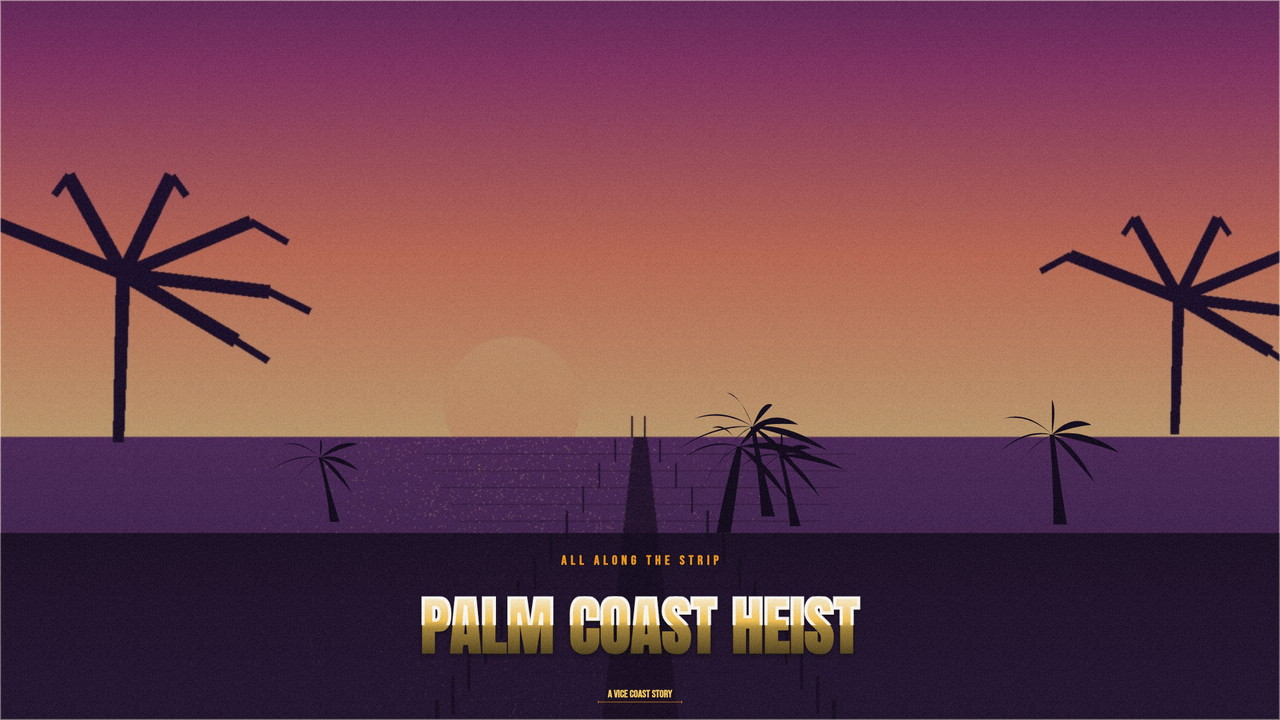
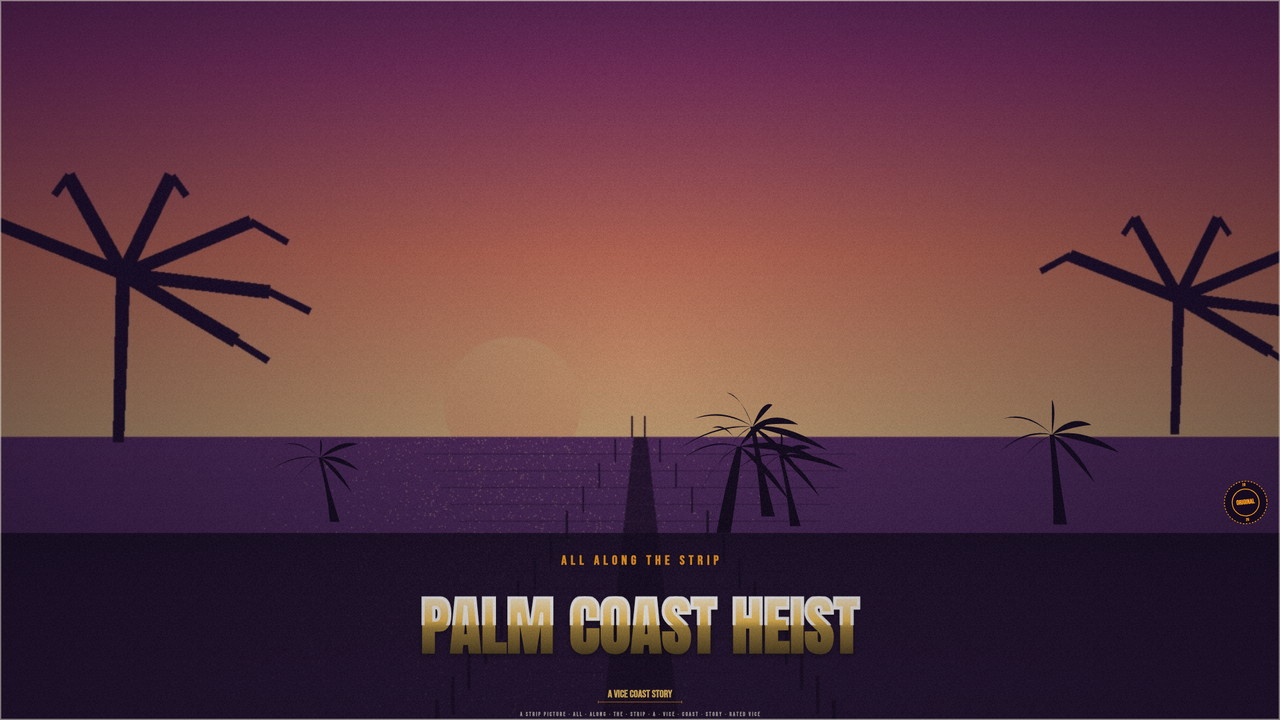
Richer covers: seal badge, billing block, vignette

diff --git a/app/src/marks.js b/app/src/marks.js
@@ -2,7 +2,8 @@
 
 export const BADGES = {
   classic: { id: 'classic', name: 'Classic' },
-  ribbon: { id: 'ribbon', name: 'Ribbon' }
+  ribbon: { id: 'ribbon', name: 'Ribbon' },
+  seal: { id: 'seal', name: 'Seal' }
 };
 
 const FONT = '"Bebas Neue", "Arial Narrow", sans-serif';
@@ -122,6 +123,66 @@ function drawRibbon(ctx, w, h, band, color) {
   ctx.restore();
 }
 
+// A circular postmark-style seal: dashed outer ring, solid inner ring, and the
+// year split across the top and bottom of the stamp.
+function drawSeal(ctx, w, h, band, color) {
+  const short = Math.min(w, h);
+  const diameter = Math.max(20, Math.round(short * 0.06));
+  const pad = Math.max(4, Math.round(short * 0.018));
+  const gap = Math.max(2, Math.round(short * 0.012));
+  const bottom = Math.max(diameter + pad, band > 0 ? h - band - gap : h - pad);
+  const cx = w - pad - diameter / 2;
+  const cy = bottom - diameter / 2;
+  const radius = diameter / 2;
+  const tilt = (-6 * Math.PI) / 180;
+
+  ctx.save();
+  ctx.translate(cx, cy);
+  ctx.rotate(tilt);
+
+  // A dark disc backs the stamp so the rings stay legible over any photo,
+  // panel or grade instead of disappearing into a bright part of the cover.
+  ctx.save();
+  ctx.globalAlpha = 0.78;
+  ctx.fillStyle = color.dark;
+  ctx.beginPath();
+  ctx.arc(0, 0, radius, 0, Math.PI * 2);
+  ctx.fill();
+  ctx.restore();
+
+  const outerWidth = Math.max(1, diameter * 0.018);
+  ctx.strokeStyle = color.accent;
+  ctx.lineWidth = outerWidth;
+  ctx.setLineDash([Math.max(2, diameter * 0.04), Math.max(2, diameter * 0.03)]);
+  ctx.beginPath();
+  ctx.arc(0, 0, radius - outerWidth / 2, 0, Math.PI * 2);
+  ctx.stroke();
+  ctx.setLineDash([]);
+
+  const innerWidth = Math.max(1, diameter * 0.02);
+  ctx.lineWidth = innerWidth;
+  ctx.beginPath();
+  ctx.arc(0, 0, radius * 0.62, 0, Math.PI * 2);
+  ctx.stroke();
+
+  const midPx = Math.max(8, Math.round(diameter * 0.16));
+  ctx.fillStyle = color.accent;
+  ctx.font = `700 ${midPx}px ${FONT}`;
+  ctx.textAlign = 'center';
+  ctx.textBaseline = 'middle';
+  ctx.fillText('ORIGINAL', 0, 0);
+
+  const year = String(new Date().getFullYear());
+  const split = Math.ceil(year.length / 2);
+  const yearPx = Math.max(6, Math.round(diameter * 0.09));
+  ctx.font = `700 ${yearPx}px ${FONT}`;
+  ctx.textBaseline = 'middle';
+  ctx.fillText(year.slice(0, split), 0, -radius * 0.81);
+  ctx.fillText(year.slice(split), 0, radius * 0.81);
+
+  ctx.restore();
+}
+
 export function drawBadge(ctx, w, h, band, grade, styleId) {
   if (!ctx || !(w > 0) || !(h > 0)) return;
   if (!Object.prototype.hasOwnProperty.call(BADGES, styleId)) return;
@@ -136,5 +197,6 @@ export function drawBadge(ctx, w, h, band, grade, styleId) {
   ctx.save();
   if (styleId === 'classic') drawClassic(ctx, w, h, bandH, color);
   else if (styleId === 'ribbon') drawRibbon(ctx, w, h, bandH, color);
+  else if (styleId === 'seal') drawSeal(ctx, w, h, bandH, color);
   ctx.restore();
 }

diff --git a/app/src/caption.js b/app/src/caption.js
@@ -105,6 +105,21 @@ function punchStencilGaps(target, centerY, size, width, height, topLimit) {
   target.restore();
 }
 
+function spacedWidth(ctx, text, spacing) {
+  const chars = Array.from(text);
+  if (!chars.length) return 0;
+  let total = 0;
+  for (let i = 0; i < chars.length; i += 1) total += ctx.measureText(chars[i]).width + spacing;
+  return total - spacing;
+}
+
+function billingWords(text) {
+  return String(text == null ? '' : text)
+    .toUpperCase()
+    .split(/[\s\u00b7]+/)
+    .filter(Boolean);
+}
+
 export function drawLettering(ctx, w, h, band, grade, opts) {
   if (!ctx || !(w > 0) || !(h > 0) || !(band > 0)) return;
 
@@ -139,6 +154,7 @@ export function drawLettering(ctx, w, h, band, grade, opts) {
   const kickerY = bandTop + band * 0.17;
   const titleY = bandTop + band * 0.64;
   const subtitleY = bandTop + band * 0.88;
+  let subtitleBottom = subtitleY + subSize * 0.2;
 
   ctx.save();
   ctx.beginPath();
@@ -265,6 +281,7 @@ export function drawLettering(ctx, w, h, band, grade, opts) {
     const textWidth = ctx.measureText(subtitle).width;
     const half = Math.min(w * 0.42, textWidth / 2 + subSize * 0.9);
     const underlineY = Math.min(h - 2, subtitleY + subSize * 0.42);
+    subtitleBottom = Math.max(subtitleBottom, underlineY + 2);
     ctx.strokeStyle = accent;
     ctx.globalAlpha = 0.75;
     ctx.lineWidth = 1;
@@ -278,6 +295,24 @@ export function drawLettering(ctx, w, h, band, grade, opts) {
     ctx.moveTo(centerX + half, underlineY - 2);
     ctx.lineTo(centerX + half, underlineY + 2);
     ctx.stroke();
+    ctx.restore();
+  }
+
+  // Tiny billing block pinned to the bottom of the band, always below the subtitle.
+  const billingLine = ['A STRIP PICTURE']
+    .concat(billingWords(kicker), billingWords(subtitle), ['RATED VICE'])
+    .join(' \u00b7 ');
+  const billingPx = Math.max(8, Math.round(band * 0.03));
+  const billingSpacing = 2;
+  const billingY = h - Math.max(3, Math.round(band * 0.02));
+  if (billingY - billingPx >= subtitleBottom + 2) {
+    ctx.save();
+    ctx.font = `700 ${billingPx}px 'Bebas Neue', sans-serif`;
+    ctx.textAlign = 'center';
+    ctx.textBaseline = 'alphabetic';
+    ctx.fillStyle = palette.ink || '#fff4e8';
+    ctx.globalAlpha = 0.75;
+    drawSpacedText(ctx, billingLine, centerX, billingY, billingSpacing);
     ctx.restore();
   }
 

diff --git a/app/src/engine.js b/app/src/engine.js
@@ -157,8 +157,9 @@ function paintBand(ctx, w, h, band, grade, state) {
   ctx.fillRect(0, top, w, band);
 
   drawBandPattern(ctx, w, h, band, grade, state.pattern);
-  if (state.badge) drawBadge(ctx, w, h, band, grade, state.badgeStyle);
 
+  // The badge is painted in renderCover, outside this clip: it sits above the
+  // band, so drawing it here would clip it away entirely.
   drawLettering(ctx, w, h, band, grade, {
     title: state.title,
     subtitle: state.subtitle,
@@ -243,7 +244,7 @@ export function renderCover(canvas, w, h, state) {
     ctx.restore();
   }
 
-  // (d) Caption band: gradient, texture, badge, lettering.
+  // (d) Caption band: gradient, texture, lettering.
   paintBand(ctx, w, h, band, grade, options);
 
   // (e) Subtle grain over everything.
@@ -256,6 +257,30 @@ export function renderCover(canvas, w, h, state) {
   ctx.lineWidth = edge;
   ctx.strokeRect(edge / 2, edge / 2, w - edge, h - edge);
   ctx.restore();
+
+  // (g) Vignette: clear at the centre, grade.dark at 45% in the corners.
+  const centerX = w / 2;
+  const centerY = h / 2;
+  const cornerRadius = Math.hypot(centerX, centerY);
+  const vignette = ctx.createRadialGradient(centerX, centerY, 0, centerX, centerY, cornerRadius);
+  vignette.addColorStop(0, withAlpha(grade.dark, 0));
+  vignette.addColorStop(1, withAlpha(grade.dark, 0.45));
+  ctx.save();
+  ctx.fillStyle = vignette;
+  ctx.fillRect(0, 0, w, h);
+  ctx.restore();
+
+  // (h) Two-pixel inner frame in the grade's ink.
+  ctx.save();
+  ctx.strokeStyle = withAlpha(grade.ink, 0.3);
+  ctx.lineWidth = 2;
+  ctx.strokeRect(1, 1, w - 2, h - 2);
+  ctx.restore();
+
+  // (i) Badge last, unclipped: it lives just above the lettering band at the
+  // right edge, so panels, the band clip and the corner vignette must not
+  // cover it. Shared by the seal, classic and ribbon styles.
+  if (options.badge) drawBadge(ctx, w, h, band, grade, options.badgeStyle);
 
   return canvas;
 }

diff --git a/app/src/main.js b/app/src/main.js
@@ -96,7 +96,7 @@ const state = {
   palms: true,
   grain: true,
   badge: true,
-  badgeStyle: 'classic',
+  badgeStyle: 'seal',
   frame: 'none',
   pattern: 'none',
   idea: '',
